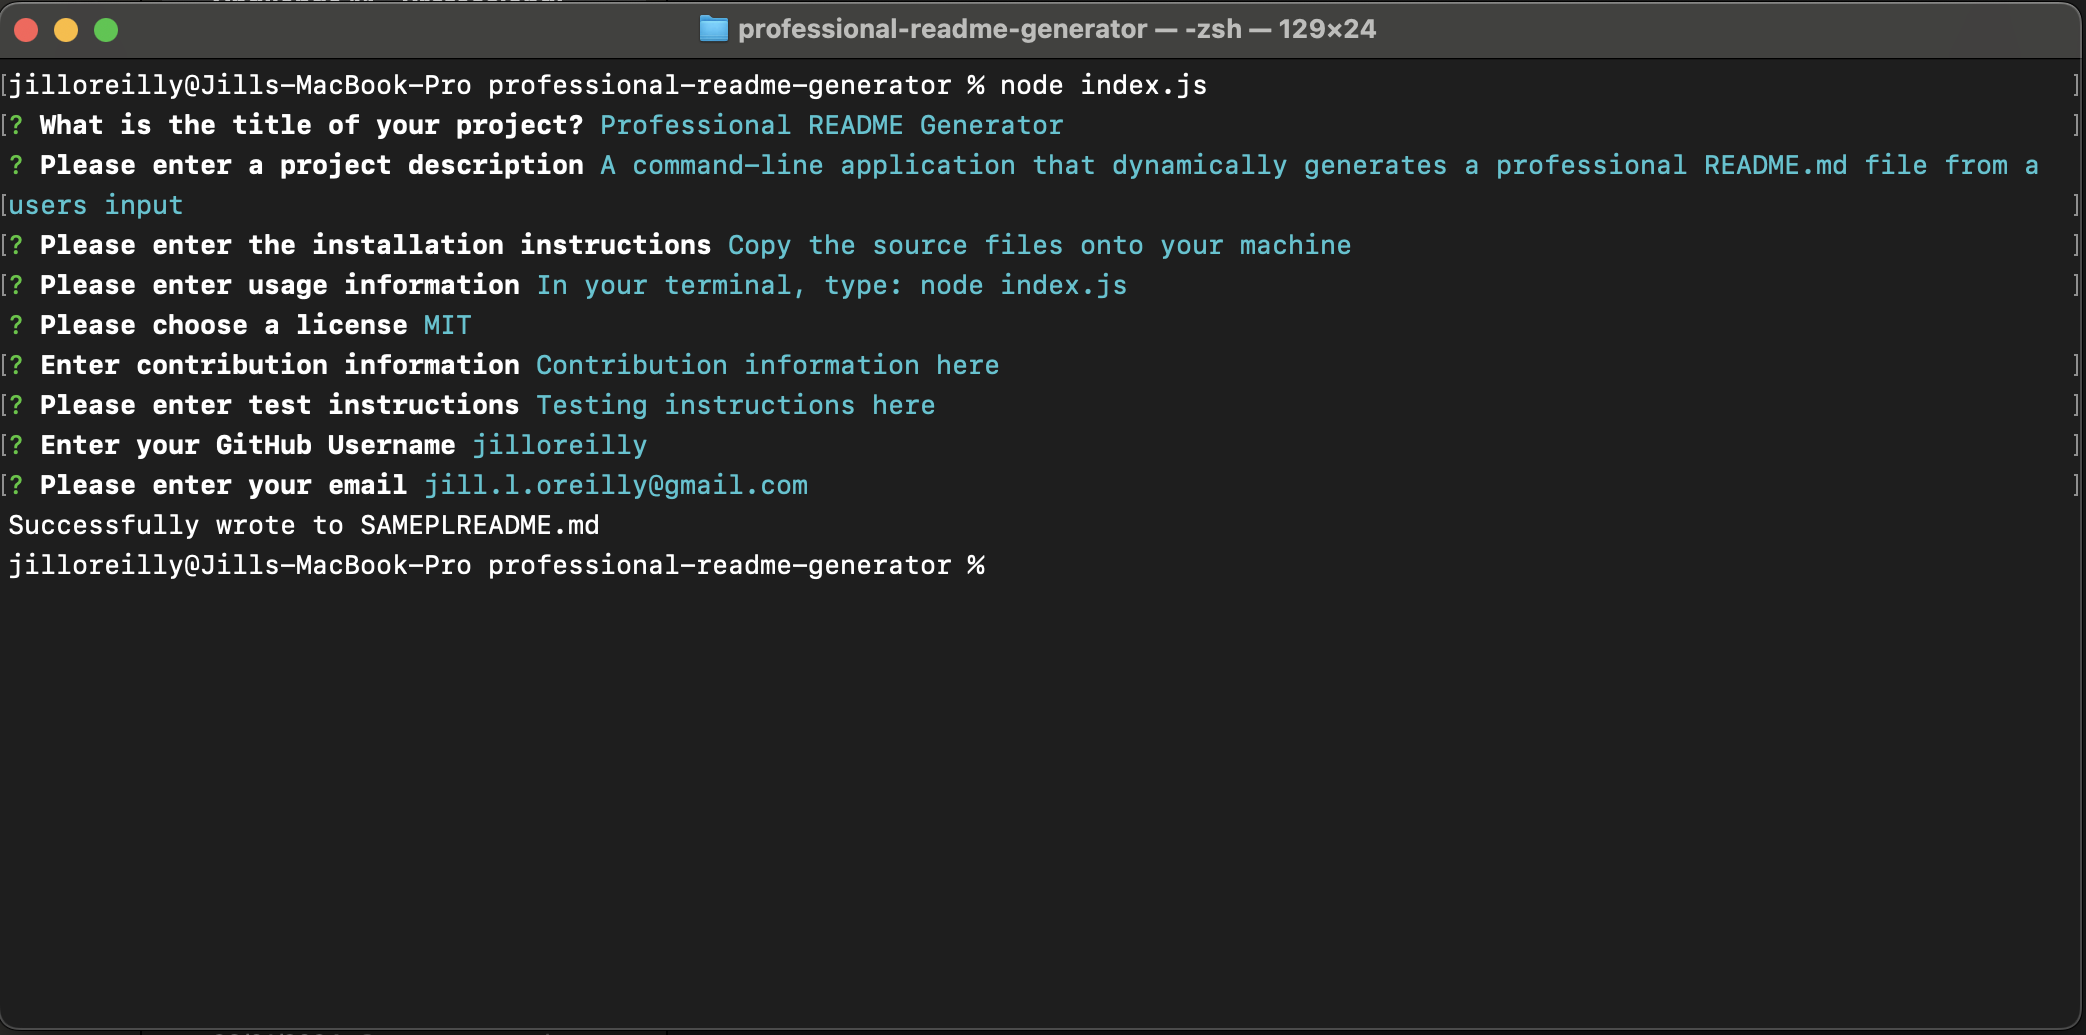
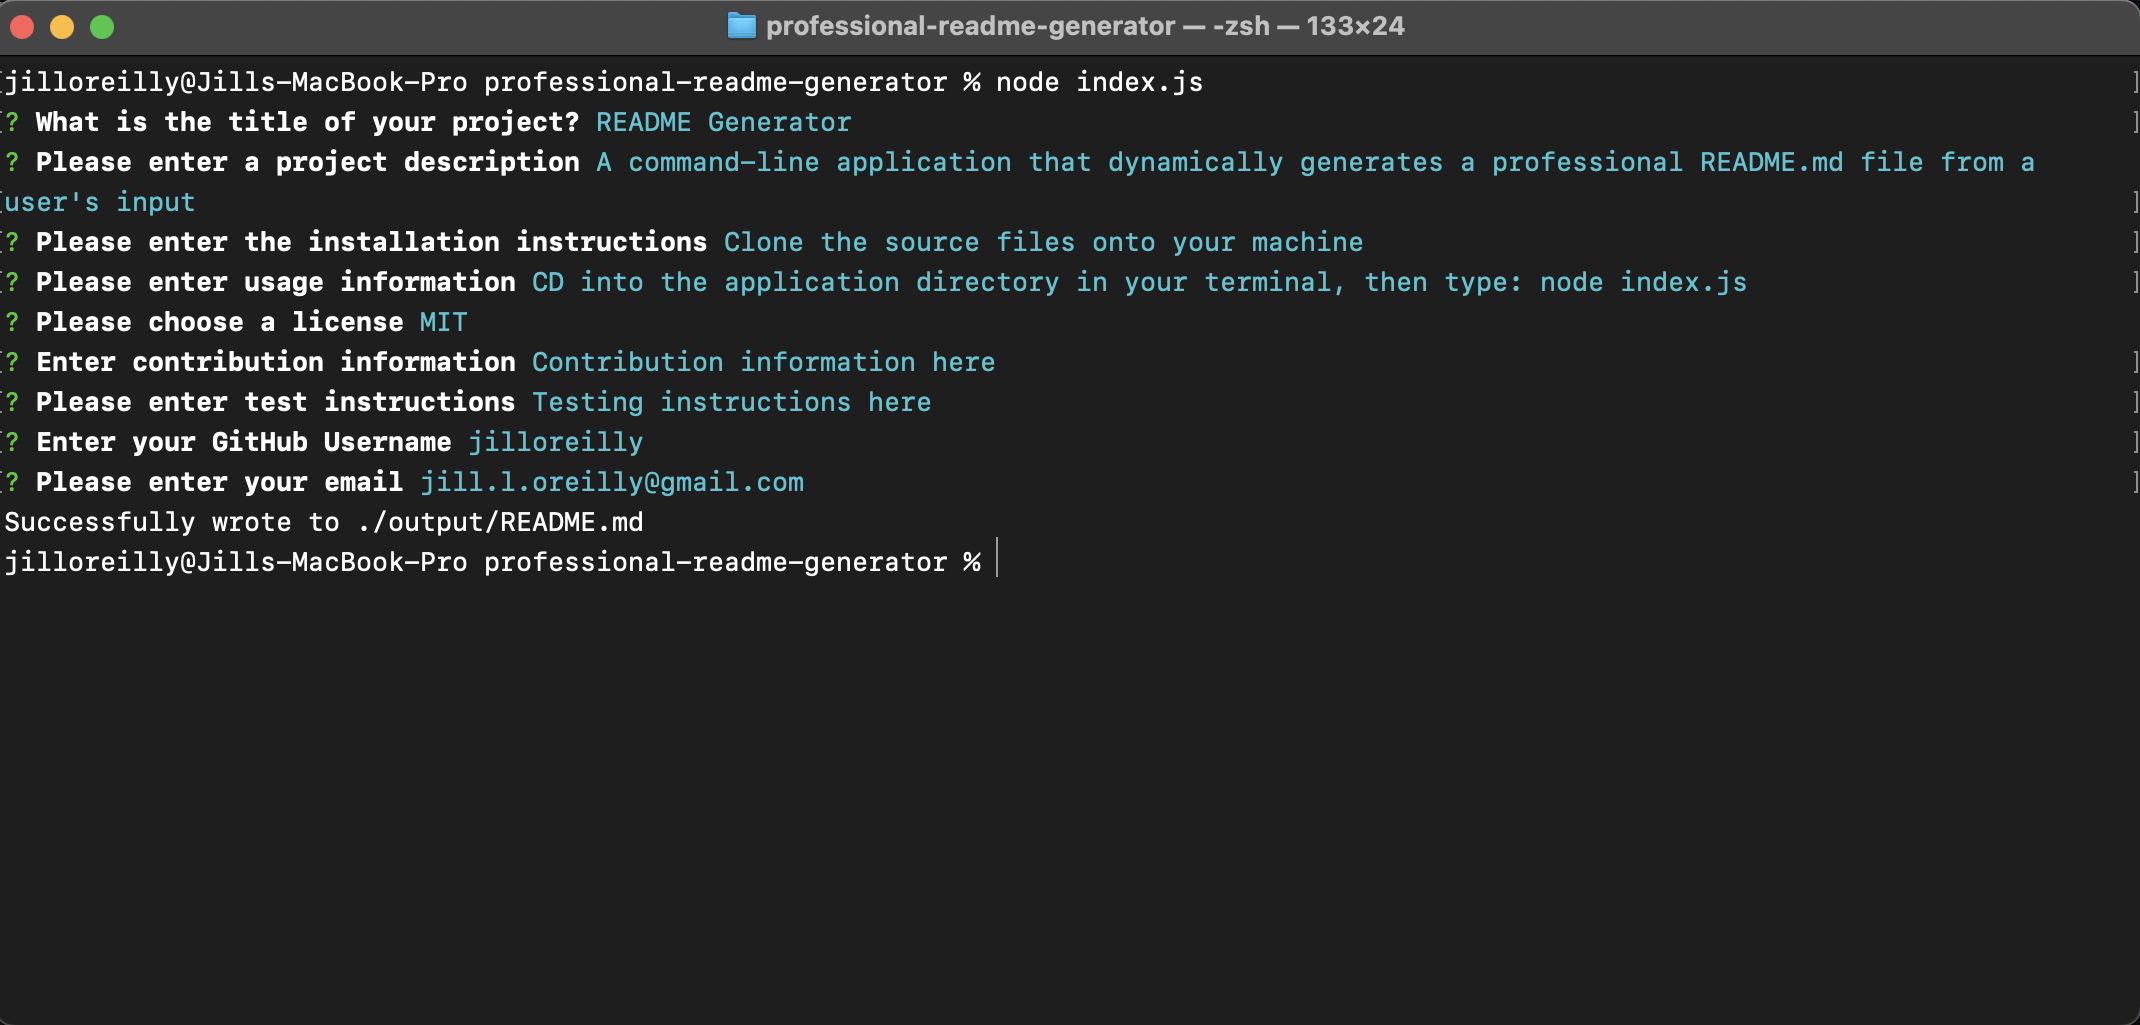
Updated screenshot and generated README file

diff --git a/output/README.md b/output/README.md
@@ -1,6 +1,6 @@
 # README Generator
 
-  ![License](https://img.shields.io/badge/License-MIT-blue.svg)
+  ![Static Badge](https://img.shields.io/badge/License-MIT-blue)
 
   ## Description
   A command-line application that dynamically generates a professional README.md file from a user's input
@@ -18,7 +18,7 @@
   Clone the source files onto your machine
 
   ## Usage
-  In your terminal, type: node index.js
+  CD into the application directory in your terminal, then type: node index.js
 
   ## License
   This project is licensed under the **MIT** license
